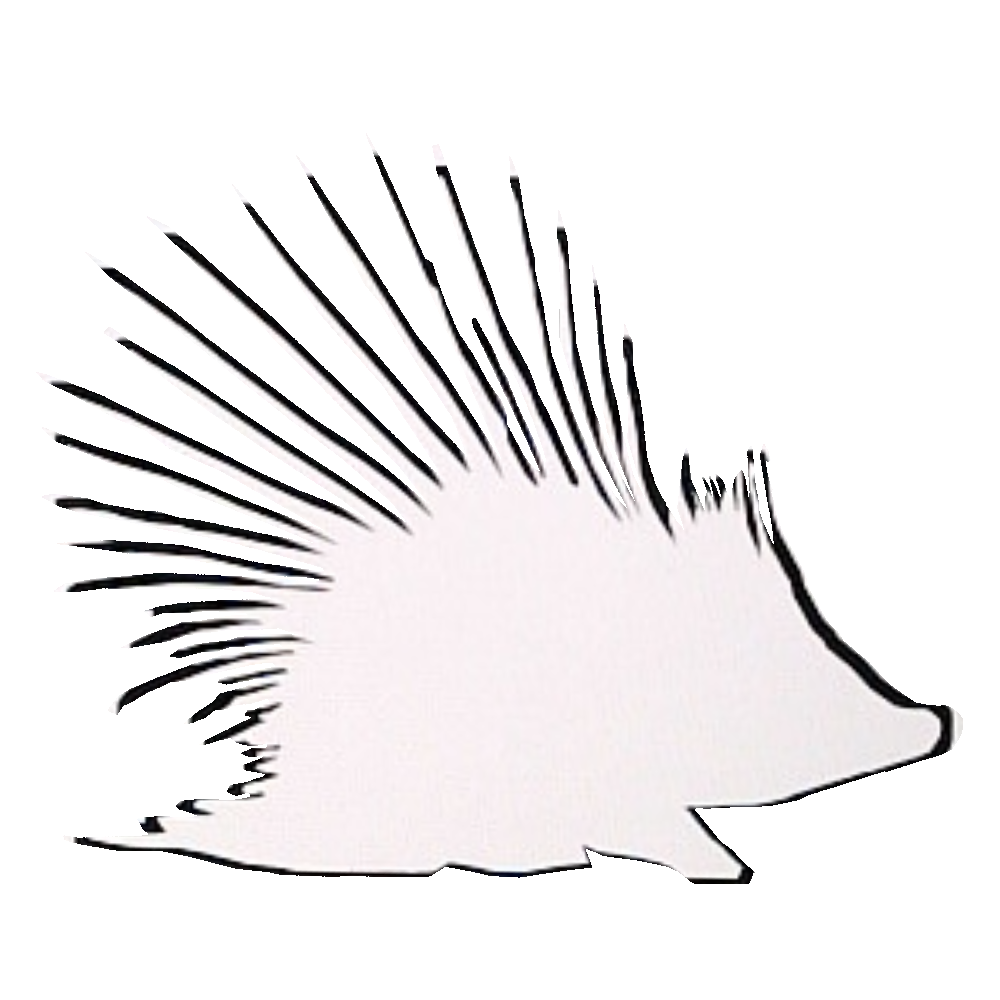
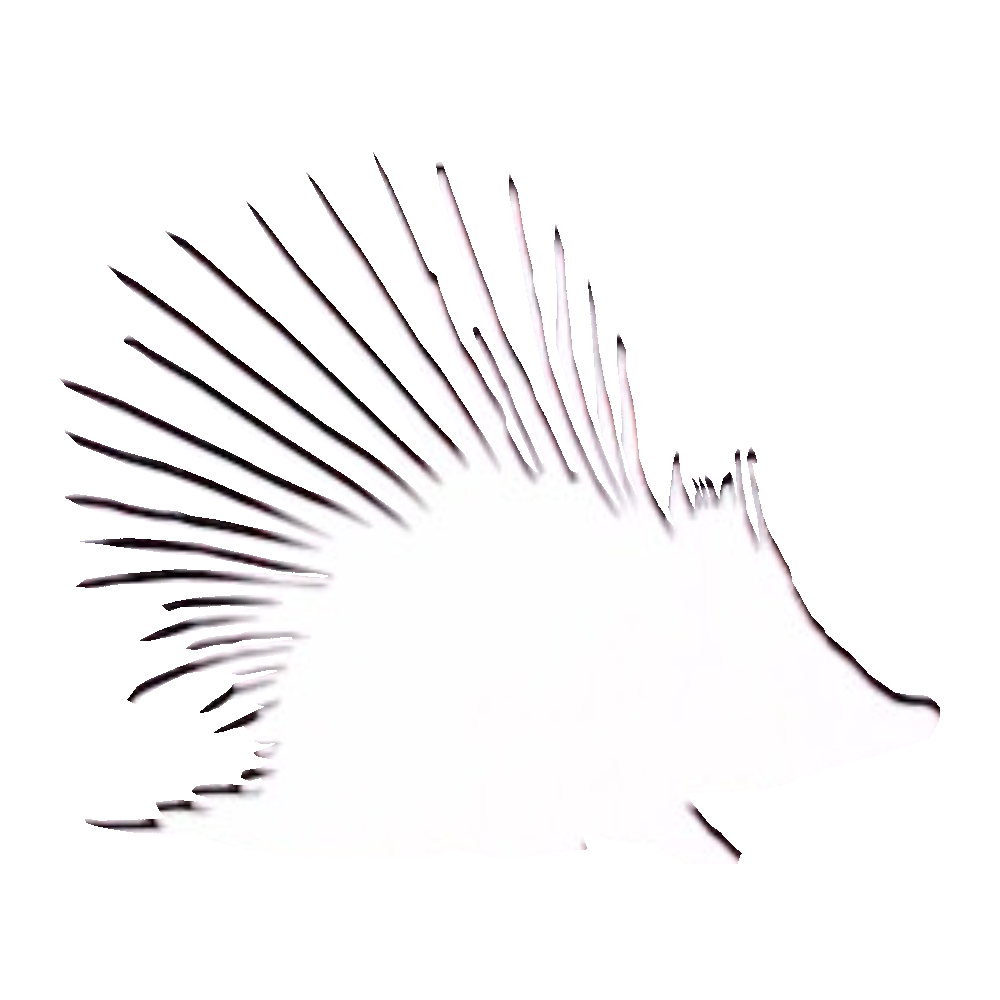
only minor adjustments needed

diff --git a/scannerTest.py b/scannerTest.py
@@ -86,10 +86,7 @@ def apply_bw_mask(image, mask):
         print("Error: Mask image not found.")
         return image
 
-    # Ensure the mask matches the image size
-    if mask.shape[:2] != image.shape[:2]:
-        mask = cv2.resize(mask, (image.shape[1], image.shape[0]))
-
+    # The mask is assumed to be the same size as the image.
     mask_gray = cv2.cvtColor(mask, cv2.COLOR_BGR2GRAY) if len(mask.shape) == 3 else mask
     _, binary_mask = cv2.threshold(mask_gray, 127, 255, cv2.THRESH_BINARY)
 
@@ -132,18 +129,30 @@ def detect_qr_and_process(frame):
 
     # Increase the region by a margin (delta) to cover a slightly larger area.
     delta = 50
-    # Adjust the region slightly lower by vertical_adjustment pixels.
-    vertical_adjustment = -30
+    # Apply a slight vertical adjustment (if needed)
+    vertical_adjustment = -25
 
     cropped = aligned[outline_y - delta + vertical_adjustment : outline_y + 2000 + delta + vertical_adjustment,
                       outline_x - delta : outline_x + 2000 + delta]
 
-    # Resize cropped area and mask to match resolution (e.g., 1000x1000)
+    # Resize cropped area to 1000x1000.
     cropped_resized = cv2.resize(cropped, (1000, 1000))
-    mask_resized = cv2.resize(mask, (1000, 1000))
+    
+    # Instead of resizing the mask to 1000x1000 directly, create a slightly smaller mask.
+    target_mask_size = 950  # New, smaller size for the mask content.
+    mask_small = cv2.resize(mask, (target_mask_size, target_mask_size))
+    # Create a blank mask of 1000x1000.
+    if len(mask.shape) == 3:
+        blank_mask = np.zeros((1000, 1000, mask.shape[2]), dtype=mask.dtype)
+    else:
+        blank_mask = np.zeros((1000, 1000), dtype=mask.dtype)
+    start_x = (1000 - target_mask_size) // 2
+    start_y = (1000 - target_mask_size) // 2
+    blank_mask[start_y:start_y+target_mask_size, start_x:start_x+target_mask_size] = mask_small
+    mask_final = blank_mask
 
-    # Apply the mask to the cropped drawing area
-    result = apply_bw_mask(cropped_resized, mask_resized)
+    # Apply the mask to the cropped drawing area.
+    result = apply_bw_mask(cropped_resized, mask_final)
 
     output_path = f"output_{qr_data}.png"
     cv2.imwrite(output_path, result, [cv2.IMWRITE_PNG_COMPRESSION, 9])
